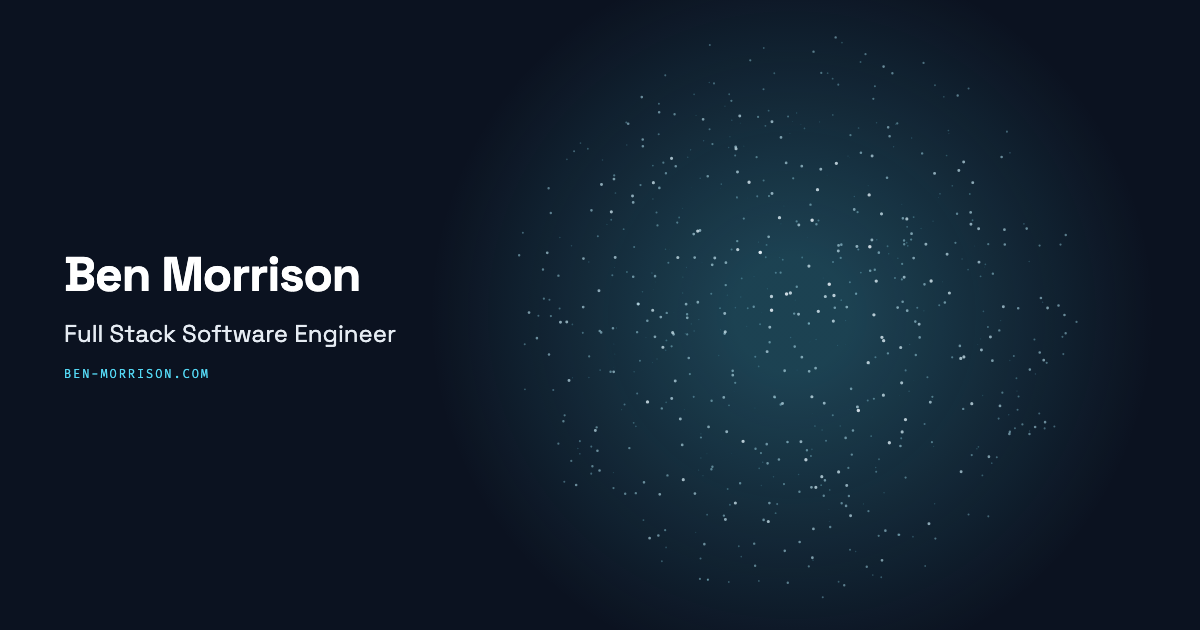
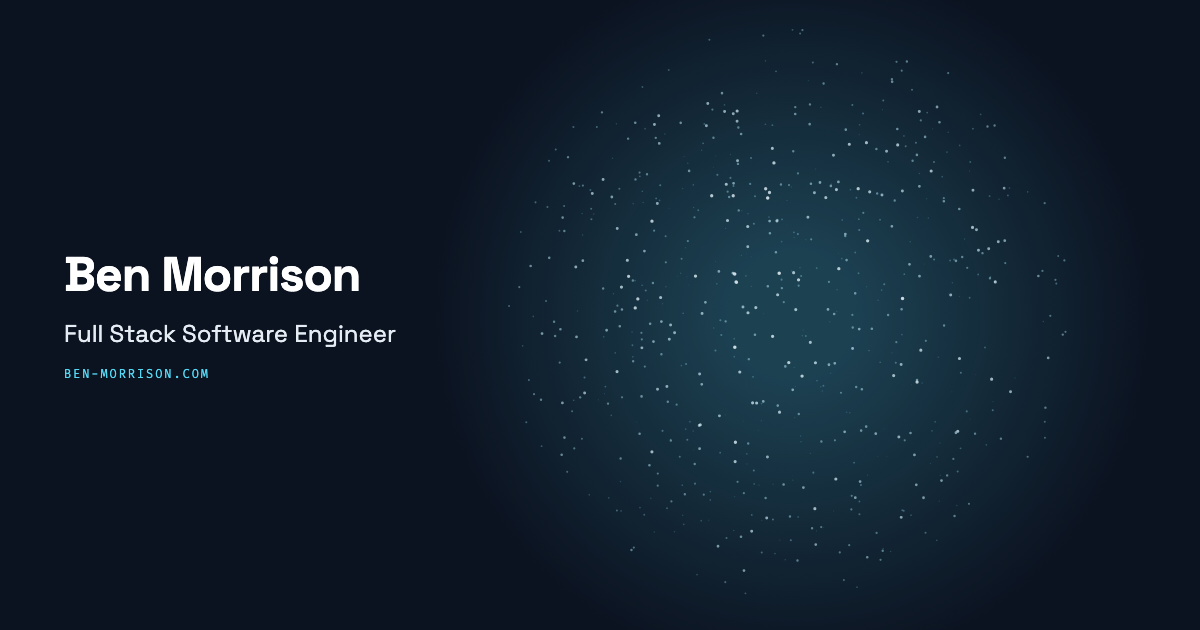
feat: add frame backdrop to home page

diff --git a/e2e/tests/backdrop.spec.ts b/e2e/tests/backdrop.spec.ts
@@ -1,13 +1,28 @@
 import { expect, test, type Page } from "@playwright/test";
-import { chooseInMenu, storeTheme, themes, tokenColor } from "./support.ts";
+import { chooseInMenu, storeTheme, themes, tokenColor, type Theme } from "./support.ts";
 
-/** Home and the 404 draw the sphere; every Design System page has the frame glow (R1.3). */
+/** Home and the 404 draw the sphere over the frame glow; every other page has the frame alone (R1.3, decision 0018). */
 const strikingPages = ["/", "/nope"];
 const quietPage = "/design-system";
 
 const sphere = (page: Page) => page.locator('canvas[aria-hidden="true"]');
-const frameGlow = (page: Page) => page.locator('div[aria-hidden="true"][class*="_quiet_"]');
+const frameGlow = (page: Page) => page.locator('div[aria-hidden="true"][class*="_frameGlow_"]');
 const switcher = (page: Page) => page.getByRole("banner").getByRole("button", { name: /^Theme: / });
+
+/** The frame glow: fixed behind the content, one gradient in from each edge in the frame color. */
+async function expectFrameGlow(page: Page, theme: Theme) {
+  await expect(frameGlow(page)).toHaveCount(1);
+  await expect(frameGlow(page)).toHaveCSS("position", "fixed");
+  await expect(frameGlow(page)).toHaveCSS("z-index", "-1");
+  const glow = await frameGlow(page).evaluate(
+    (element) => getComputedStyle(element).backgroundImage,
+  );
+  // The frame color is translucent; tokenColor gives its opaque channels.
+  const channels = tokenColor("color.backdrop.frame", theme).slice("rgb(".length, -1);
+  // One gradient in from each edge, in the frame color (owner trial, 2026-10-25).
+  expect(glow.match(/linear-gradient\(/g)).toHaveLength(4);
+  expect(glow).toContain(`rgba(${channels},`);
+}
 
 /** Waits until the sphere has drawn its first frame and faded in (R2.9). */
 async function sphereShown(page: Page) {
@@ -54,7 +69,8 @@ async function watchBackdropShifts(page: Page) {
         const fromBackdrop = (entry.sources ?? []).some(
           ({ node }) =>
             node instanceof Element &&
-            (node.localName === "canvas" || (node.getAttribute("class") ?? "").includes("_quiet_")),
+            (node.localName === "canvas" ||
+              (node.getAttribute("class") ?? "").includes("_frameGlow_")),
         );
         if (fromBackdrop) shifts.push(entry.value);
       }
@@ -80,7 +96,39 @@ for (const path of strikingPages) {
         return element?.localName;
       });
       expect(hit).not.toBe("canvas");
-      await expect(frameGlow(page)).toHaveCount(0);
+    });
+
+    for (const theme of themes) {
+      test(`draws the frame glow under the sphere in ${theme} (backdrop-layers R1.1–R1.3)`, async ({
+        page,
+      }) => {
+        await storeTheme(page, theme);
+        await page.goto(path);
+        await sphereShown(page);
+
+        await expectFrameGlow(page, theme);
+        await expect(sphere(page)).toHaveCSS("z-index", "-1");
+        // Same z-index, so DOM order stacks them: the later canvas paints over the frame.
+        const frameFirst = await frameGlow(page).evaluate((frame) => {
+          const canvas = document.querySelector('canvas[aria-hidden="true"]');
+          return canvas !== null && (frame.compareDocumentPosition(canvas) & 4) !== 0;
+        });
+        expect(frameFirst).toBe(true);
+      });
+    }
+
+    test("shows the frame glow when the sphere's script can't load (backdrop-layers R2.1)", async ({
+      page,
+    }) => {
+      const errors: string[] = [];
+      page.on("pageerror", (error) => errors.push(error.message));
+      await page.route(/\/assets\/start-sphere-[\w-]+\.js$/, (route) => route.abort());
+      await page.goto(path);
+
+      await expect(frameGlow(page)).toHaveCount(1);
+      await page.waitForLoadState("networkidle");
+      await expect(sphere(page)).toHaveCSS("opacity", "0");
+      expect(errors).toEqual([]);
     });
 
     for (const theme of themes) {
@@ -194,17 +242,7 @@ for (const theme of themes) {
     await storeTheme(page, theme);
     await page.goto(quietPage);
 
-    await expect(frameGlow(page)).toHaveCount(1);
-    await expect(frameGlow(page)).toHaveCSS("position", "fixed");
-    await expect(frameGlow(page)).toHaveCSS("z-index", "-1");
-    const glow = await frameGlow(page).evaluate(
-      (element) => getComputedStyle(element).backgroundImage,
-    );
-    // The frame color is translucent; tokenColor gives its opaque channels.
-    const channels = tokenColor("color.backdrop.frame", theme).slice("rgb(".length, -1);
-    // One gradient in from each edge, in the frame color (owner trial, 2026-10-25).
-    expect(glow.match(/linear-gradient\(/g)).toHaveLength(4);
-    expect(glow).toContain(`rgba(${channels},`);
+    await expectFrameGlow(page, theme);
     await expect(sphere(page)).toHaveCount(0);
   });
 }
@@ -217,6 +255,7 @@ test("swaps the backdrops on client-side navigation, with no errors (R1.4)", asy
   page.on("pageerror", (error) => errors.push(error.message));
   await page.goto("/");
   await sphereShown(page);
+  await expect(frameGlow(page)).toHaveCount(1);
 
   await page.getByRole("banner").getByRole("link", { name: "Design System" }).click();
   await expect(page).toHaveURL(quietPage);
@@ -226,7 +265,8 @@ test("swaps the backdrops on client-side navigation, with no errors (R1.4)", asy
   await page.goBack();
   await expect(page).toHaveURL("/");
   await sphereShown(page);
-  await expect(frameGlow(page)).toHaveCount(0);
+  // The frame stays through both swaps; only the sphere comes and goes (backdrop-layers R1.5).
+  await expect(frameGlow(page)).toHaveCount(1);
   const drawn = await sample(page);
   expect(drawn.painted).toBeGreaterThan(0);
   expect(errors).toEqual([]);
@@ -240,8 +280,11 @@ test.describe("hidden where the backdrop would get in the way (R6.2, R6.3)", () 
     test(`hides both backdrops for ${label}`, async ({ page }) => {
       await page.emulateMedia(media);
 
-      await page.goto("/");
-      await expect(sphere(page)).toHaveCSS("display", "none");
+      for (const path of strikingPages) {
+        await page.goto(path);
+        await expect(sphere(page)).toHaveCSS("display", "none");
+        await expect(frameGlow(page)).toHaveCSS("display", "none");
+      }
       await page.goto(quietPage);
       await expect(frameGlow(page)).toHaveCSS("display", "none");
     });
@@ -257,7 +300,9 @@ test("adds no layout shift on load, resize or navigation (R5.6)", async ({ page,
   await page.setViewportSize({ width: 600, height: 800 });
   await page.setViewportSize({ width: 1280, height: 720 });
   await page.getByRole("banner").getByRole("link", { name: "Design System" }).click();
-  await expect(frameGlow(page)).toHaveCount(1);
+  // Every page has the frame now (decision 0018), so wait on the URL and the sphere leaving.
+  await expect(page).toHaveURL(quietPage);
+  await expect(sphere(page)).toHaveCount(0);
   await page.goBack();
   await sphereShown(page);
 

diff --git a/web/src/shell/backdrop/Backdrop.test.tsx b/web/src/shell/backdrop/Backdrop.test.tsx
@@ -7,25 +7,48 @@ import styles from "./Backdrop.module.css";
 const focusable = "a[href], button, input, select, textarea, [tabindex], [contenteditable]";
 
 describe("Backdrop", () => {
-  it("renders the quiet kind as one hidden layer with no canvas (R4.1, R4.2)", () => {
+  it("renders the quiet kind as the frame alone, with no canvas (R4.1, R4.2)", () => {
     const { container } = render(<Backdrop kind="quiet" />);
 
     expect(container.children).toHaveLength(1);
-    const layer = container.firstElementChild;
-    expect(layer).toHaveAttribute("aria-hidden", "true");
-    expect(layer).toHaveClass(styles.layer ?? "", styles.quiet ?? "");
+    const frame = container.firstElementChild;
+    expect(frame?.tagName).toBe("DIV");
+    expect(frame).toHaveAttribute("aria-hidden", "true");
+    expect(frame).toHaveClass(styles.layer ?? "", styles.frameGlow ?? "");
     expect(container.querySelector("canvas")).toBeNull();
   });
 
-  it("renders the striking kind as a hidden canvas (R2.1)", () => {
+  it("renders the striking kind as the frame, then a hidden canvas over it (backdrop-layers R1.1, R1.3)", () => {
     const { container } = render(<Backdrop kind="striking" />);
 
-    expect(container.children).toHaveLength(1);
-    const canvas = container.firstElementChild;
+    const [frame, canvas, ...rest] = [...container.children];
+    expect(rest).toEqual([]);
+    expect(frame?.tagName).toBe("DIV");
+    expect(frame).toHaveClass(styles.layer ?? "", styles.frameGlow ?? "");
     expect(canvas?.tagName).toBe("CANVAS");
     expect(canvas).toHaveAttribute("aria-hidden", "true");
     expect(canvas).toHaveClass(styles.layer ?? "");
-    expect(canvas).not.toHaveClass(styles.quiet ?? "");
+    expect(canvas).not.toHaveClass(styles.frameGlow ?? "");
+  });
+
+  it("draws the same frame for both kinds (backdrop-layers R1.2)", () => {
+    const quiet = render(<Backdrop kind="quiet" />).container.firstElementChild;
+    const striking = render(<Backdrop kind="striking" />).container.firstElementChild;
+
+    expect(striking?.outerHTML).toBe(quiet?.outerHTML);
+  });
+
+  it("keeps the frame node when the kind changes (backdrop-layers R1.5)", () => {
+    const { container, rerender } = render(<Backdrop kind="quiet" />);
+    const frame = container.firstElementChild;
+
+    rerender(<Backdrop kind="striking" />);
+    expect(container.firstElementChild).toBe(frame);
+    expect(container.querySelectorAll("canvas")).toHaveLength(1);
+
+    rerender(<Backdrop kind="quiet" />);
+    expect(container.firstElementChild).toBe(frame);
+    expect(container.querySelector("canvas")).toBeNull();
   });
 
   it.each(["quiet", "striking"] as const)(
@@ -34,7 +57,7 @@ describe("Backdrop", () => {
       const { container } = render(<Backdrop kind={kind} />);
 
       expect(container.querySelectorAll(focusable)).toHaveLength(0);
-      expect(container.firstElementChild?.childElementCount).toBe(0);
+      for (const layer of container.children) expect(layer.childElementCount).toBe(0);
       await expectNoAxeViolations(container);
     },
   );

diff --git a/web/src/shell/SiteShell.test.tsx b/web/src/shell/SiteShell.test.tsx
@@ -261,16 +261,16 @@ describe("SiteShell", () => {
   it("renders the quiet backdrop by default (site-backdrop R1.1)", () => {
     const { container } = renderAt("/");
 
-    expect(container.getElementsByClassName(backdropStyles.quiet ?? "")).toHaveLength(1);
+    expect(container.getElementsByClassName(backdropStyles.frameGlow ?? "")).toHaveLength(1);
     expect(container.querySelector("canvas")).toBeNull();
   });
 
-  it("renders the striking backdrop for a route whose handle asks for it (site-backdrop R1.1)", async () => {
+  it("renders the frame and the sphere for a route whose handle asks for striking (backdrop-layers R1.1)", async () => {
     const { container } = renderAt("/striking");
 
     expect(await screen.findByRole("heading", { name: "Striking page" })).toBeInTheDocument();
     expect(container.querySelectorAll("canvas")).toHaveLength(1);
-    expect(container.getElementsByClassName(backdropStyles.quiet ?? "")).toHaveLength(0);
+    expect(container.getElementsByClassName(backdropStyles.frameGlow ?? "")).toHaveLength(1);
   });
 
   it("offers the sphere's pause toggle on striking pages only (site-backdrop R6.7)", async () => {
@@ -290,15 +290,18 @@ describe("SiteShell", () => {
     expect(pause()).toBeNull();
   });
 
-  it("swaps the sphere for the frame glow on navigating to a quiet page (site-backdrop R1.4)", async () => {
+  it("removes the sphere and keeps the frame on navigating to a quiet page (site-backdrop R1.4, backdrop-layers R1.5)", async () => {
     const user = userEvent.setup();
     const { container } = renderAt("/striking");
     await screen.findByRole("heading", { name: "Striking page" });
+    const frame = container.getElementsByClassName(backdropStyles.frameGlow ?? "")[0];
 
     await user.click(screen.getByRole("link", { name: "Go to Design System" }));
 
     expect(await screen.findByRole("heading", { name: "Design System page" })).toBeInTheDocument();
     expect(container.querySelector("canvas")).toBeNull();
-    expect(container.getElementsByClassName(backdropStyles.quiet ?? "")).toHaveLength(1);
+    const frames = container.getElementsByClassName(backdropStyles.frameGlow ?? "");
+    expect(frames).toHaveLength(1);
+    expect(frames[0]).toBe(frame);
   });
 });

diff --git a/web/test/build/backdrop.test.ts b/web/test/build/backdrop.test.ts
@@ -27,10 +27,10 @@ const quietFiles = [
 const documentOf = (file: string) =>
   new JSDOM(readFileSync(`${clientDir}${file}`, "utf8")).window.document;
 
-/** CSS-module class names keep their local name (`_quiet_<hash>_<line>`). */
-const quietLayers = (document: Document) =>
+/** CSS-module class names keep their local name (`_frameGlow_<hash>_<line>`). */
+const frameLayers = (document: Document) =>
   [...document.querySelectorAll('div[aria-hidden="true"]')].filter((element) =>
-    [...element.classList].some((name) => name.startsWith("_quiet_")),
+    [...element.classList].some((name) => name.startsWith("_frameGlow_")),
   );
 
 /** The sphere engine's chunk, named after its module (R5.7). */
@@ -44,18 +44,23 @@ beforeAll(() => {
 });
 
 describe("backdrop in the build (site-backdrop R1.3, R4.2, R5.7)", () => {
-  it.each(strikingFiles)("%s prerenders one hidden canvas and no frame glow", (file) => {
-    const document = documentOf(file);
+  it.each(strikingFiles)(
+    "%s prerenders the frame glow, then one hidden canvas (backdrop-layers R2.1)",
+    (file) => {
+      const document = documentOf(file);
 
-    expect(document.querySelectorAll("canvas")).toHaveLength(1);
-    expect(document.querySelectorAll('canvas[aria-hidden="true"]')).toHaveLength(1);
-    expect(quietLayers(document)).toHaveLength(0);
-  });
+      expect(document.querySelectorAll("canvas")).toHaveLength(1);
+      expect(document.querySelectorAll('canvas[aria-hidden="true"]')).toHaveLength(1);
+      const [frame] = frameLayers(document);
+      expect(frameLayers(document)).toHaveLength(1);
+      expect(frame?.nextElementSibling?.localName).toBe("canvas");
+    },
+  );
 
   it.each(quietFiles)("%s prerenders the frame glow and no canvas", (file) => {
     const document = documentOf(file);
 
-    expect(quietLayers(document)).toHaveLength(1);
+    expect(frameLayers(document)).toHaveLength(1);
     expect(document.querySelector("canvas")).toBeNull();
   });
 

diff --git a/e2e/og-image.ts b/e2e/og-image.ts
@@ -1,6 +1,7 @@
 /**
  * Renders the link-preview image, web/public/og-image.png (home R7.5, design §7): the built Home
- * page's still sphere in Dark, with the name, the role and the domain over it, at 1200×630.
+ * page's still sphere in Dark (without the frame glow), with the name, the role and the domain over
+ * it, at 1200×630.
  *
  * When: after changing the name, the role, the dark palette or the sphere.
  * How:  pnpm run build && pnpm run og-image && pnpm run build, then commit the PNG. To refresh
@@ -25,6 +26,8 @@ const origin = "https://127.0.0.1:4173";
 /** The card over the sphere. Every value is a token custom property; the text is set below. */
 const cardStyles = `
   header, footer, [data-og-hidden] { display: none !important; }
+  /* The frame glow (decision 0018): Chrome dithers its gradients, and the noise takes the PNG past 300 KB. */
+  div[aria-hidden="true"][class*="_frameGlow_"] { display: none !important; }
   .og-card {
     position: fixed;
     inset-block: 0;

diff --git a/web/src/shell/backdrop/Backdrop.tsx b/web/src/shell/backdrop/Backdrop.tsx
@@ -3,11 +3,16 @@ import type { BackdropKind } from "../route-handle.ts";
 import styles from "./Backdrop.module.css";
 import { SphereCanvas } from "./SphereCanvas.tsx";
 
-/** The decorative layer behind every page (site-backdrop R1): the dot sphere, or the frame glow. */
+/**
+ * The decorative layers behind every page: the frame glow, then the dot sphere on striking pages
+ * (site-backdrop R1, decision 0018). Same z-index, so the later sphere paints over the frame; the
+ * frame stays the same element when the kind changes, so it never re-mounts.
+ */
 export function Backdrop({ kind }: { kind: BackdropKind }) {
-  return kind === "striking" ? (
-    <SphereCanvas />
-  ) : (
-    <div aria-hidden="true" className={cx(styles.layer, styles.quiet)} />
+  return (
+    <>
+      <div aria-hidden="true" className={cx(styles.layer, styles.frameGlow)} />
+      {kind === "striking" && <SphereCanvas />}
+    </>
   );
 }

diff --git a/web/src/shell/backdrop/Backdrop.module.css b/web/src/shell/backdrop/Backdrop.module.css
@@ -1,4 +1,4 @@
-/* Shared by both kinds: fixed behind all content, below the header (layer.backdrop). */
+/* Shared by both layers: fixed behind all content, below the header (layer.backdrop). */
 .layer {
   position: fixed;
   inset: 0;
@@ -8,9 +8,10 @@
 
 /*
  * An even band of accent cyan along every edge, in both themes (owner: frame, not vignette,
- * 2026-10-24). The vmin depths keep the band in proportion on phones and wide screens.
+ * 2026-10-24). The vmin depths keep the band in proportion on phones and wide screens. On every
+ * page; on striking pages it sits under the sphere (decision 0018).
  */
-.quiet {
+.frameGlow {
   background-image:
     linear-gradient(to bottom, var(--color-backdrop-frame), 5vmin, transparent 26vmin),
     linear-gradient(to top, var(--color-backdrop-frame), 5vmin, transparent 26vmin),

diff --git a/web/src/shell/backdrop/SphereCanvas.test.tsx b/web/src/shell/backdrop/SphereCanvas.test.tsx
@@ -97,7 +97,7 @@ describe("SphereCanvas", () => {
     expect(vi.getTimerCount()).toBe(0);
   });
 
-  it("leaves the page color, and throws nothing, when the engine fails to load (R6.4)", async () => {
+  it("stays transparent, and throws nothing, when the engine fails to load (R6.4, decision 0018)", async () => {
     // The chunk download is the boundary here: a failed fetch rejects the dynamic import.
     vi.resetModules();
     vi.doMock("./sphere/start-sphere.ts", () => {

diff --git a/web/src/shell/backdrop/SphereCanvas.tsx b/web/src/shell/backdrop/SphereCanvas.tsx
@@ -26,7 +26,7 @@ export function SphereCanvas() {
           });
         }
       })
-      // A chunk that fails to load (offline, or a stale page after a deploy) leaves the page color (R6.4).
+      // A chunk that fails to load (offline, or a stale page after a deploy) leaves the canvas clear, so the frame glow shows (R6.4, decision 0018).
       .catch(() => undefined);
     return () => {
       active = false;
